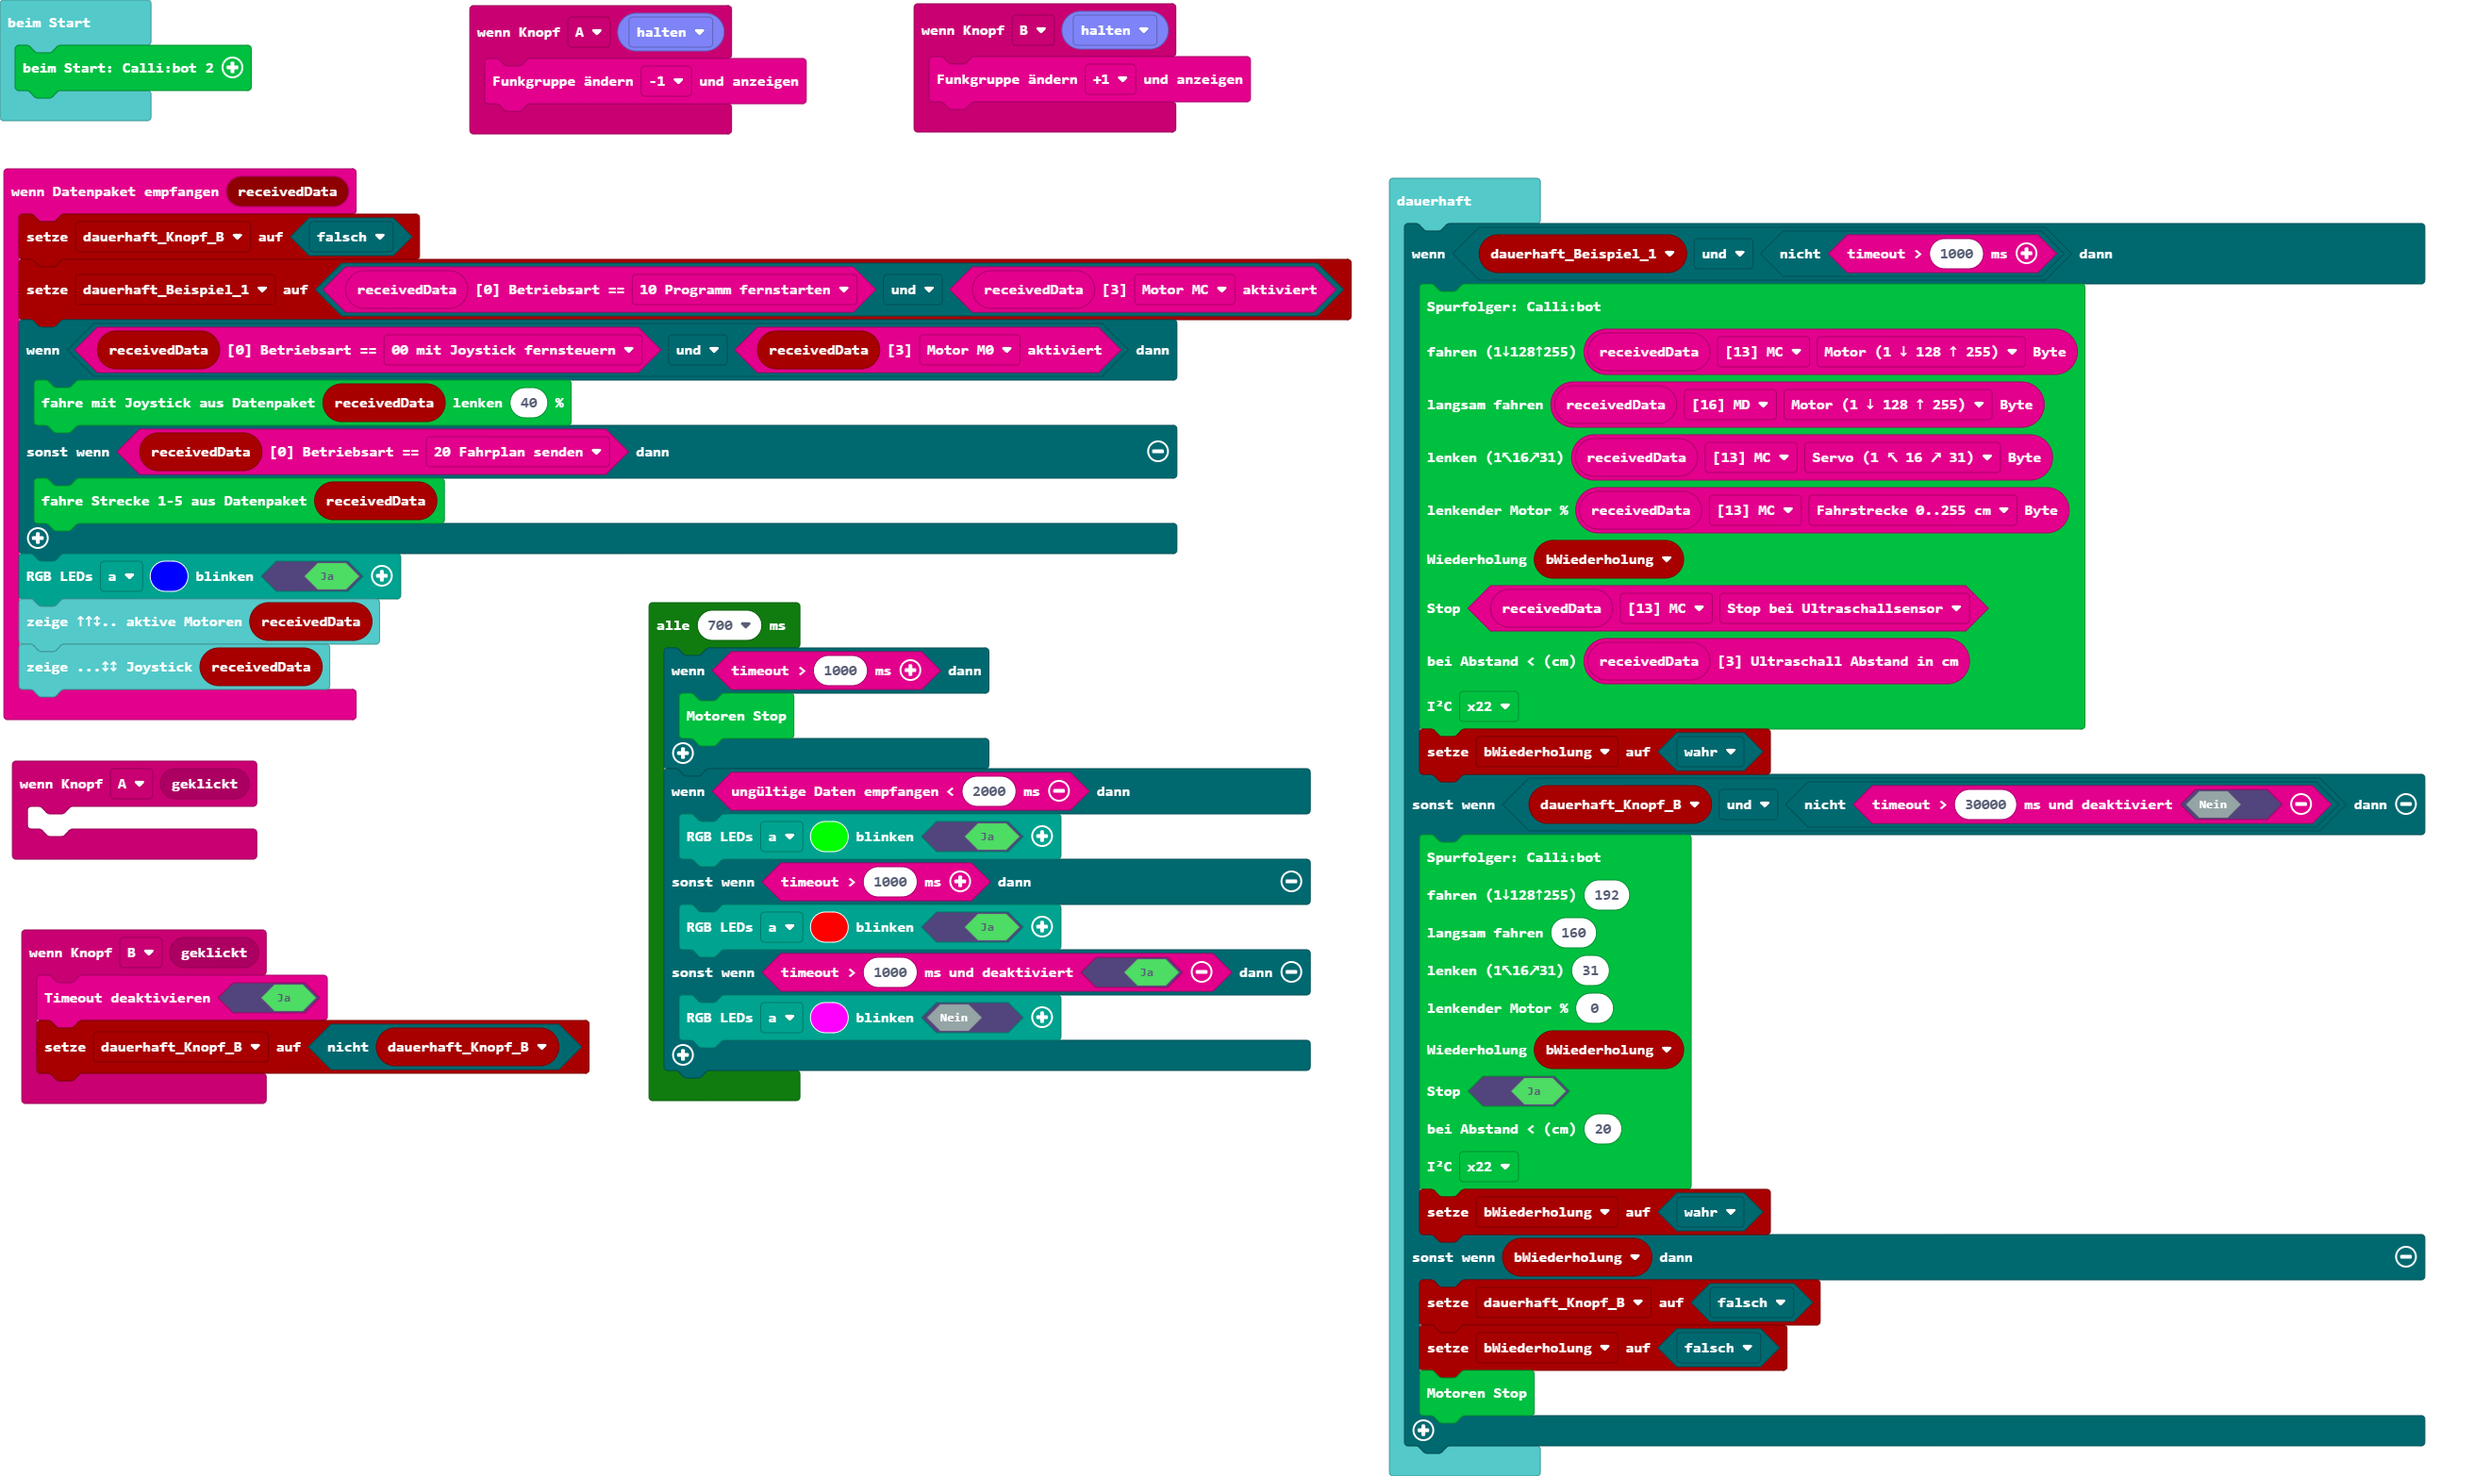
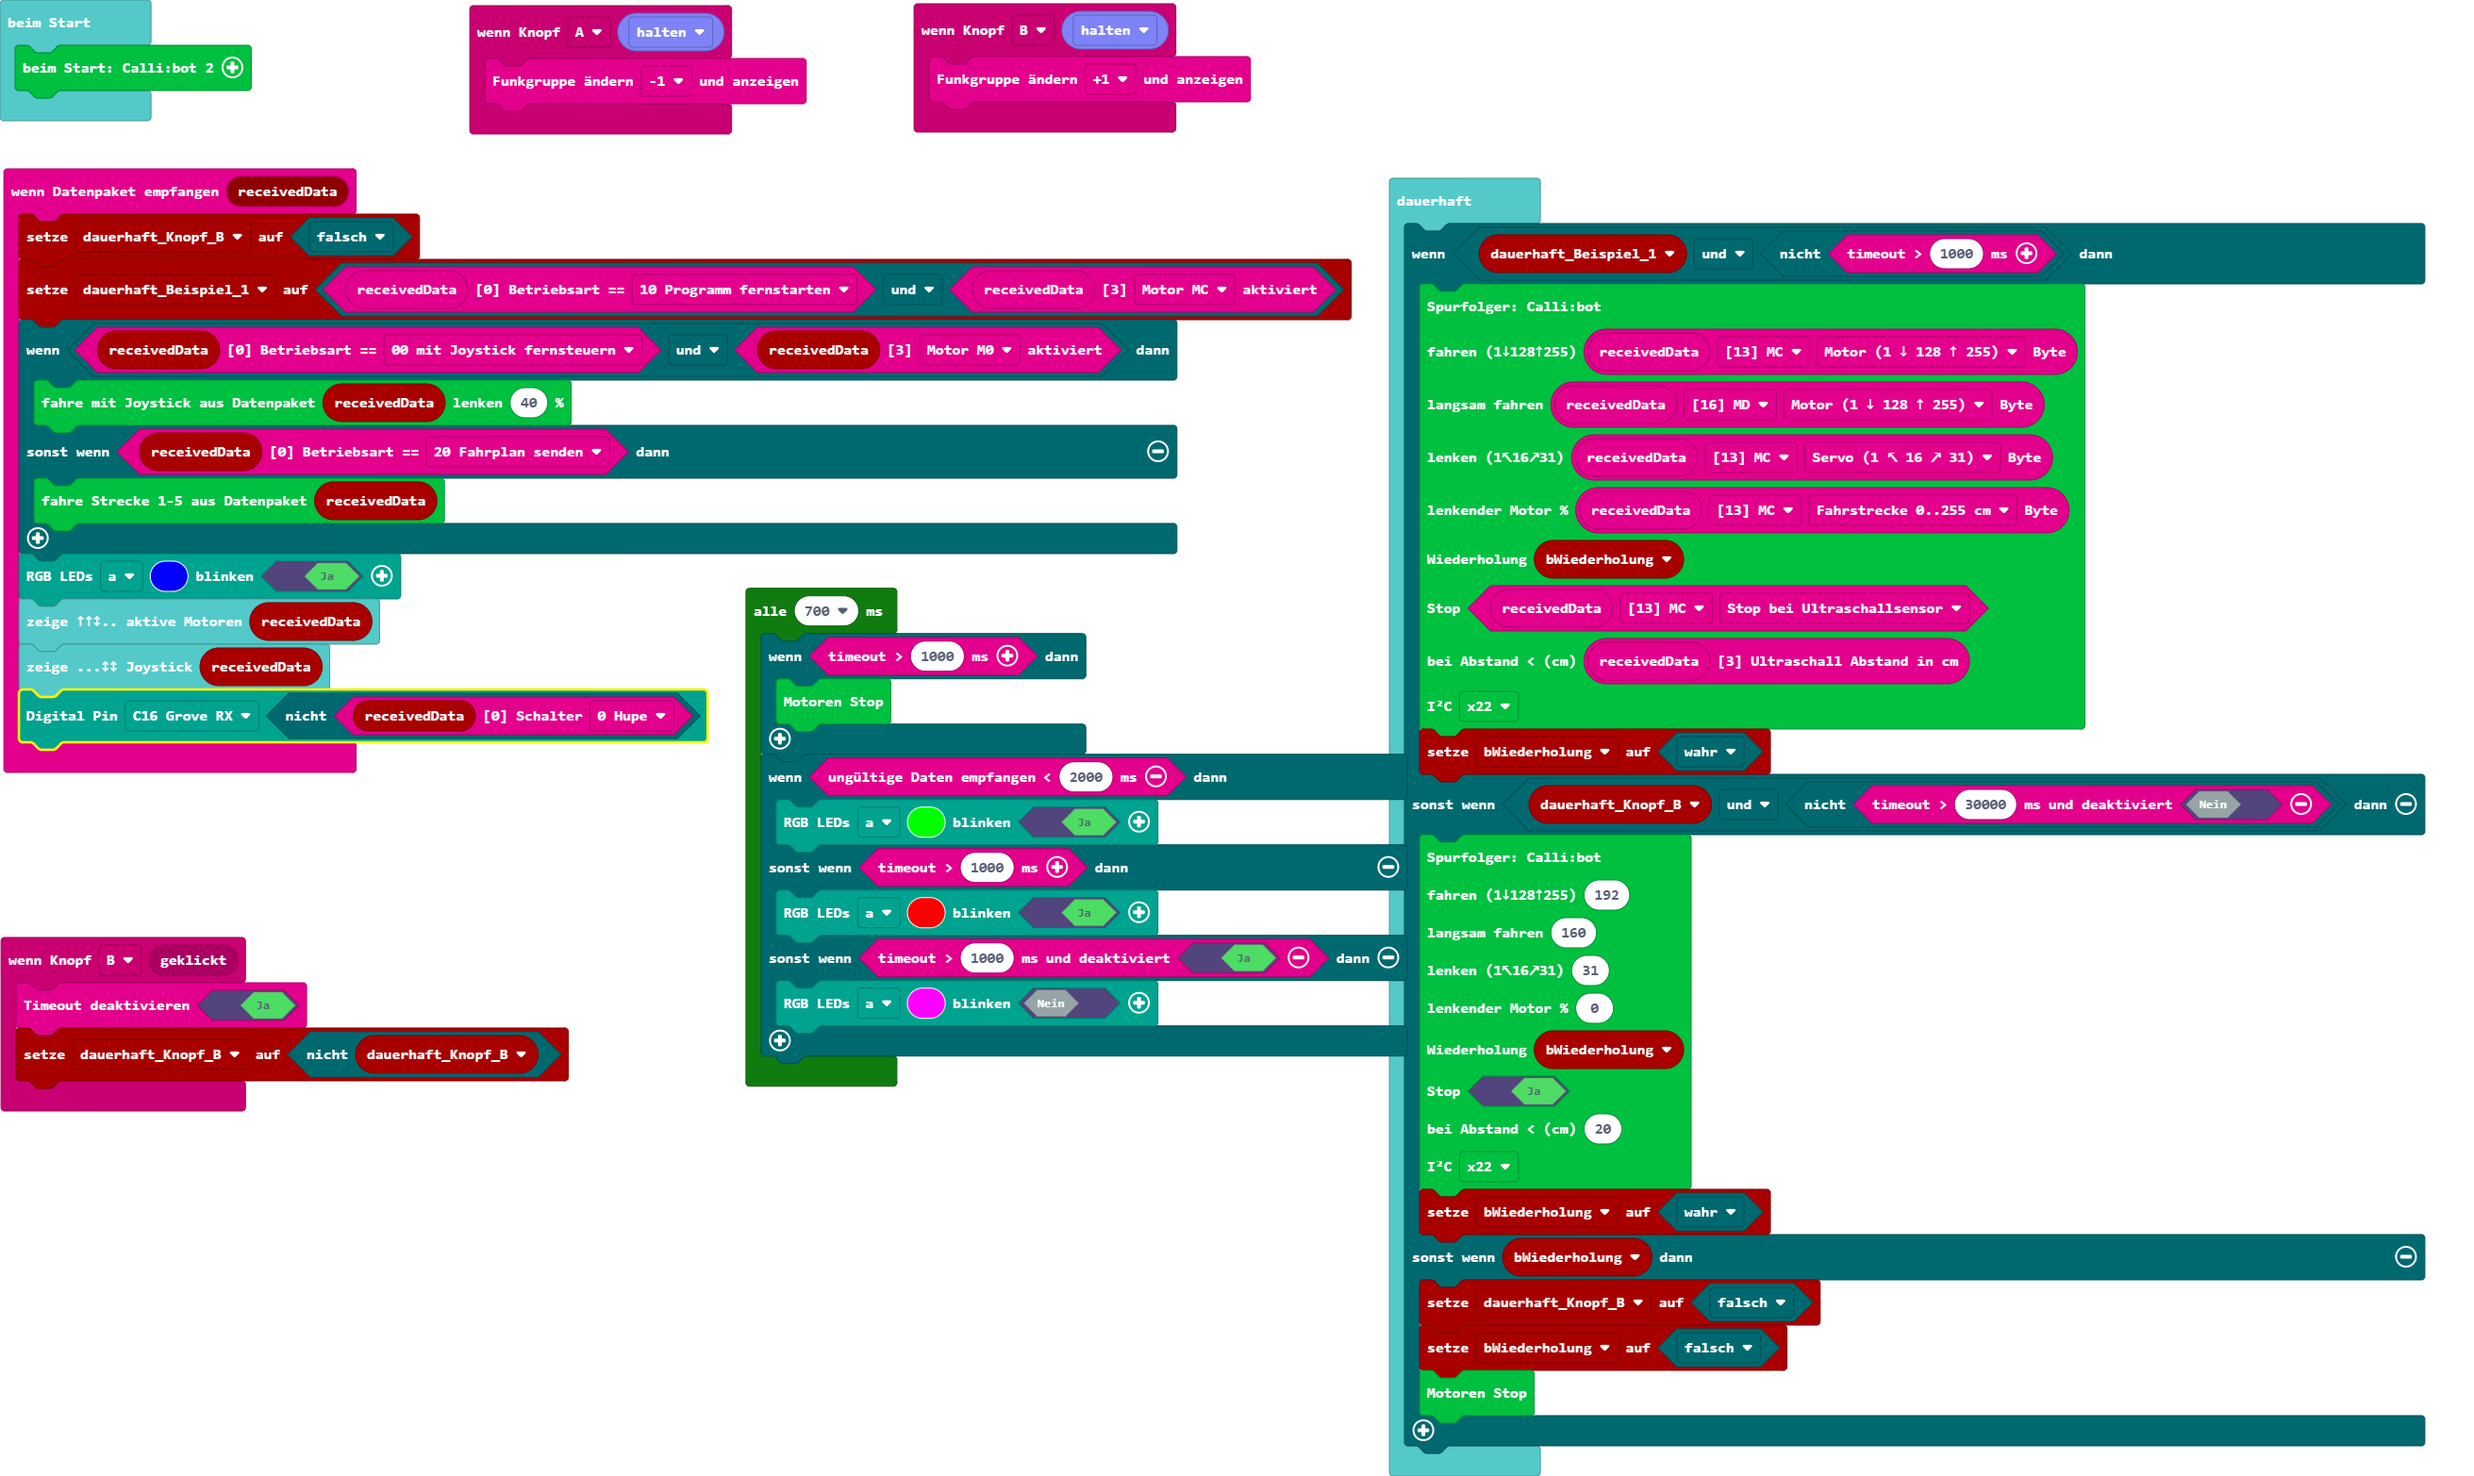
Aktualisiere main.blocks, main.ts

Changed region(s): [[0.0, 0.3987, 0.5867, 0.7668]]

diff --git a/main.ts b/main.ts
@@ -1,6 +1,3 @@
-input.onButtonEvent(Button.A, input.buttonEventClick(), function () {
-	
-})
 input.onButtonEvent(Button.B, input.buttonEventClick(), function () {
     btf.set_timeoutDisbled(true)
     dauerhaft_Knopf_B = !(dauerhaft_Knopf_B)
@@ -19,6 +16,7 @@ btf.onReceivedData(function (receivedData) {
     receiver.rgbLEDs(receiver.eRGBled.a, 0x0000ff, true)
     btf.zeige5x5Buffer(receivedData)
     btf.zeige5x5Joystick(receivedData)
+    receiver.digitalWritePin(receiver.eDigitalPins.C16, !(btf.getSchalter(receivedData, btf.e0Schalter.b0)))
 })
 input.onButtonEvent(Button.A, btf.buttonEventValue(ButtonEvent.Hold), function () {
     btf.setFunkgruppeButton(btf.eFunkgruppeButton.minus)
